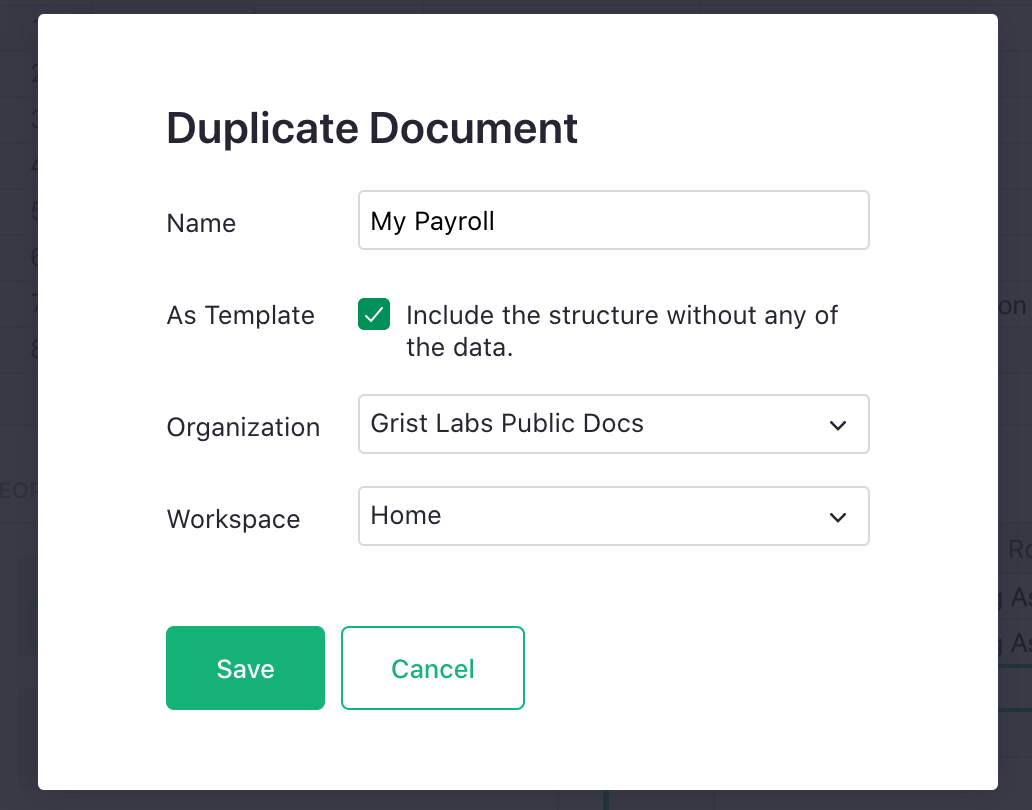
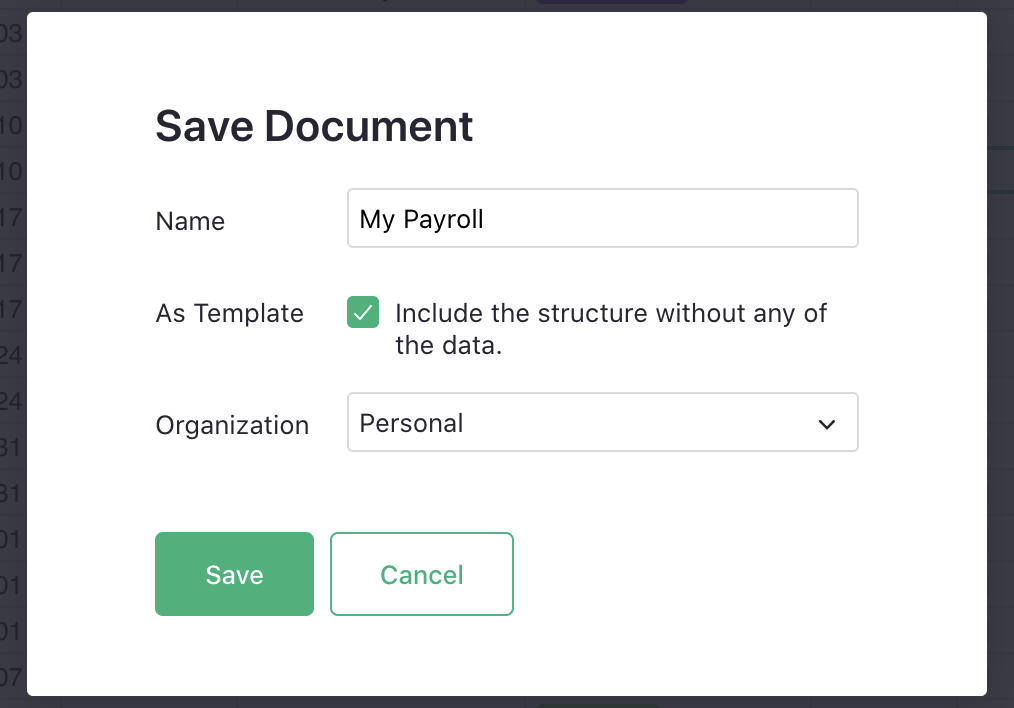
Point payroll example to the Payroll template, and update instructions and screenshots for saving a copy of it

diff --git a/help/examples/2020-09-payroll.md b/help/examples/2020-09-payroll.md
@@ -10,7 +10,7 @@ especially if you have part-time employees.
 
 ## The Payroll Template
 
-The finished template is here: <https://public.getgrist.com/eXEBnC3hPfYA/Payroll/m/fork>.
+The finished template is here: <https://templates.getgrist.com/5pHLanQNThxk/Payroll>{:target="\_blank"}.
 Feel free to open it in a separate window, and try things yourself as you go along.
 
 The template addresses a few needs:
@@ -137,10 +137,14 @@ multi-line formulas, variables, and comments.
 
 ## Using the Payroll template
 
-To start using this example for your own payroll, open the Share menu and click "Duplicate
-Document..."
+To start using this example for your own payroll, start with the template:
 
-<span class="screenshot-large">*![Share Menu](/examples/images/2020-09-payroll/share-menu.png)*</span>
+[GO TO TEMPLATE](https://templates.getgrist.com/5pHLanQNThxk/Payroll){:target="\_blank"}
+{: .grist-button }
+
+then click "Save Copy":
+
+<span class="screenshot-large">*![Save Copy](/examples/images/2020-09-payroll/save-copy.png)*</span>
 {: .screenshot-half }
 
 Then mark the "As Template" checkbox.
@@ -149,4 +153,4 @@ Then mark the "As Template" checkbox.
 {: .screenshot-half }
 
 Your copy will then include all the structure, logic, and layouts of the Payroll document with
-none of the sample data.
+none of the sample date.
